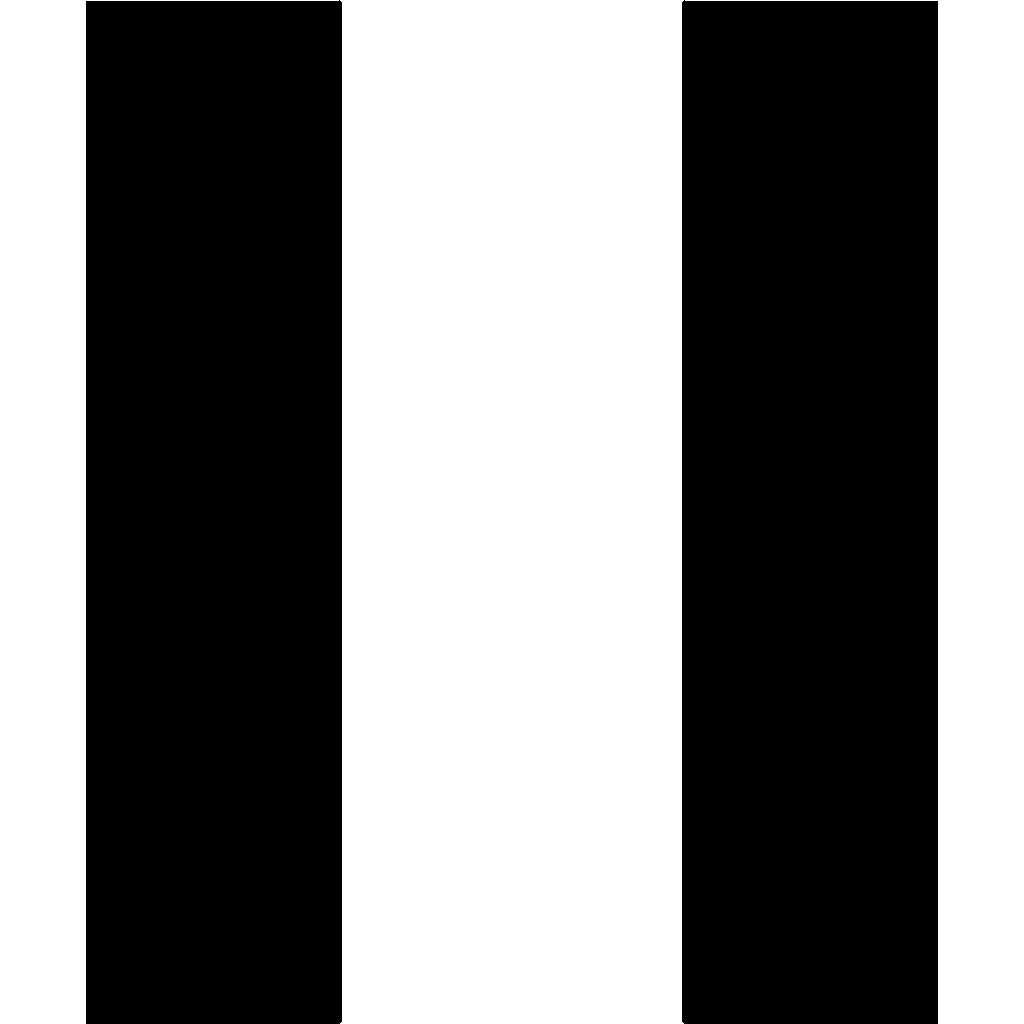
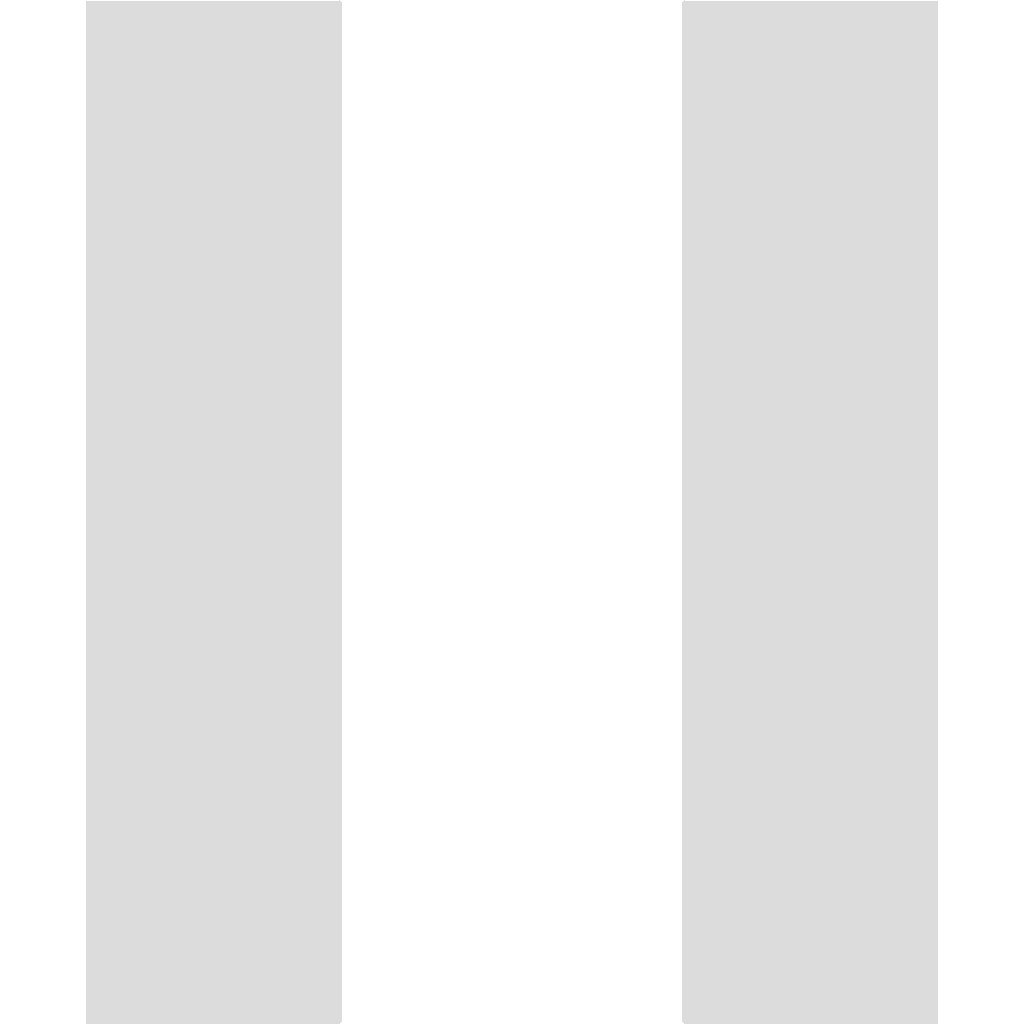
Some small visual changes / color tweaks

diff --git a/src/main/kotlin/com/pose/analysis/SliderPane.kt b/src/main/kotlin/com/pose/analysis/SliderPane.kt
@@ -1,5 +1,7 @@
 package com.pose.analysis
 
+import com.pose.analysis.App.Companion.mutedTextColor
+import com.pose.analysis.App.Companion.textColor
 import com.pose.analysis.MainPane.loadingGif
 import com.pose.analysis.MainPane.screenWidth
 import javafx.beans.binding.Bindings
@@ -39,6 +41,7 @@ object SliderPane: Pane() {
         sliderPoint.centerY = sliderHeight / 2.0
         sliderPoint.centerXProperty().bind(sliderPointPos)
         sliderPoint.radius = sliderHeight / 1.75
+        sliderPoint.fill = textColor
 
         // Sets the start of the slider
         sliderLine.startX = sliderHeight * 2.0
@@ -46,12 +49,13 @@ object SliderPane: Pane() {
         // Makes sure the slider point is at the beginning of the slider
         sliderPointPos.set(sliderLine.startX)
 
-        // Sets the the slider to the right place and size
+        // Sets the slider to the right place and size
         sliderLine.startY = sliderHeight / 2.0
         sliderLine.endX = screenWidth - (sliderHeight / 2.0)
         sliderLine.endY = sliderLine.startY
         sliderLine.strokeWidth = sliderHeight / 2.0
         sliderLine.strokeLineCap = StrokeLineCap.ROUND
+        sliderLine.stroke = mutedTextColor
 
         // Moves the play button to the correct location
         playButton.layoutX = -(sliderHeight / 7.5)
